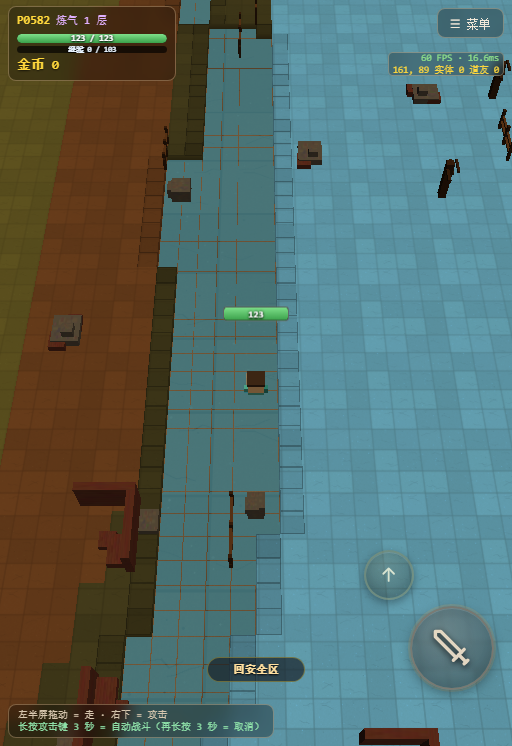
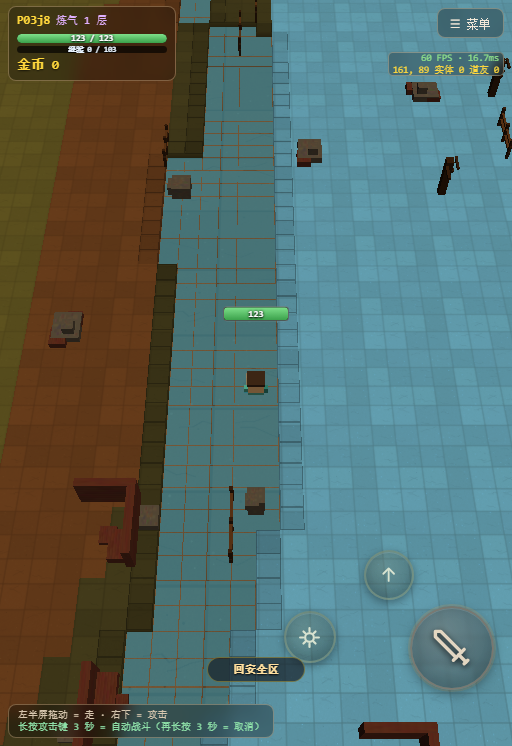
an auto-combat button, and all three action buttons can be moved
Auto-combat was only reachable by holding the attack button for three seconds, which is a
thing you have to know before you can use it. There is now a button beside jump that starts
it in one press and shows whether it is running: a green border and a slow pulse while
active, plain otherwise.

The attack, jump and auto buttons can all be dragged. Each saves its position and restores
it on load, so the layout survives a refresh. Dragging only begins after eight pixels of
movement, so a slightly imprecise tap still presses the button rather than nudging it, and
buttons are clamped to the screen so they cannot be lost off an edge. A button that was
dragged ignores the press that ended the drag.

Verified in the browser: the button exists, one press turns auto-combat on, the state class
flips, and all three are draggable.

The sound-loading text the user mentioned in red at the centre of the screen was not in any
file that is actually served - only in an old unused page - so that one is still
unidentified.

diff --git a/web/platform/web.js b/web/platform/web.js
@@ -2412,6 +2412,91 @@ function autoUiUpd() {
   }
   var chk = document.getElementById('setAuto');
   if (chk) { chk.checked = !!AUTO.on; }
+  /* ★ round353：屏幕上那个自动战斗按钮的状态（绿框 + 呼吸 ✓）*/
+  var ab = document.getElementById('auto');
+  if (ab) {
+    if (AUTO.on) { ab.classList.add('on'); } else { ab.classList.remove('on'); }
+  }
+}
+
+/* ★★★ round353（用户："攻击/跳跃/自动战斗按钮改成可移动的"）★★★
+   ★ 做法：pointerdown 记起点 ✗ 移动超过 8px 就开始拖 ✓
+     → 位置存 localStorage ✗ 刷新后还在 ✓
+   ★ 为什么不用 HTML5 拖放：手机上不认 ✗ pointer 事件两端通用 ✓
+   ★ 拖动阈值 8px：手指微抖不会误判成拖动 ✓ */
+function makeDraggable(id) {
+  var el = document.getElementById(id);
+  if (!el || el._dragInit) { return; }
+  el._dragInit = true;
+  var KEY = 'uiPos_' + id;
+  // ★ 先恢复上次的位置（用 left/top 定位 ✗ 覆盖掉 right/bottom ✓）
+  try {
+    var saved = JSON.parse(localStorage.getItem(KEY) || 'null');
+    if (saved && typeof saved.l === 'number') {
+      el.style.left = saved.l + 'px';
+      el.style.top = saved.t + 'px';
+      el.style.right = 'auto';
+      el.style.bottom = 'auto';
+    }
+  } catch (e) { }
+  var st = null;
+  el.addEventListener('pointerdown', function (e) {
+    if (e && e.preventDefault) { e.preventDefault(); }
+    var r = el.getBoundingClientRect();
+    st = { x: e.clientX, y: e.clientY, l: r.left, t: r.top, moved: false, id: e.pointerId };
+    try { el.setPointerCapture(e.pointerId); } catch (e2) { }
+  });
+  el.addEventListener('pointermove', function (e) {
+    if (!st) { return; }
+    var dx = e.clientX - st.x, dy = e.clientY - st.y;
+    if (!st.moved) {
+      if (Math.abs(dx) < 8 && Math.abs(dy) < 8) { return; }   // ★ 还没到阈值 ✓
+      st.moved = true;
+      el.classList.add('uiDrag');
+    }
+    // ★ 夹在屏幕内 ✗ 别拖出去找不回来 ✓
+    var w = el.offsetWidth, h = el.offsetHeight;
+    var nl = Math.max(0, Math.min(window.innerWidth - w, st.l + dx));
+    var nt = Math.max(0, Math.min(window.innerHeight - h, st.t + dy));
+    el.style.left = nl + 'px';
+    el.style.top = nt + 'px';
+    el.style.right = 'auto';
+    el.style.bottom = 'auto';
+  });
+  function end(e) {
+    if (!st) { return; }
+    var moved = st.moved;
+    st = null;
+    el.classList.remove('uiDrag');
+    if (moved) {
+      el._dragged = true;                  // ★ 让点击处理知道"这是拖动"✓
+      setTimeout(function () { el._dragged = false; }, 250);
+      try {
+        var r = el.getBoundingClientRect();
+        localStorage.setItem(KEY, JSON.stringify({ l: Math.round(r.left), t: Math.round(r.top) }));
+      } catch (e3) { }
+    }
+  }
+  el.addEventListener('pointerup', end);
+  el.addEventListener('pointercancel', end);
+}
+function uiDragInit() {
+  makeDraggable('atk');
+  makeDraggable('jmp');
+  makeDraggable('auto');
+  autoBind();
+}
+
+/* ★ round353：自动战斗按钮绑定（点一下开/关 ✓ 拖动时不触发 ✓ 见 makeDraggable）*/
+function autoBind() {
+  var b = document.getElementById('auto');
+  if (!b || b._bound) { return; }
+  b._bound = true;
+  b.addEventListener('pointerdown', function (e) {
+    if (e && e.preventDefault) { e.preventDefault(); }
+    if (b._dragged) { b._dragged = false; return; }   // ★ 刚拖过 → 不算点击 ✓
+    autoToggle();
+  });
 }
 
 function autoToggle() {
@@ -5550,7 +5635,8 @@ function bindLogin() {
     window.TP_BOOT_DONE = true;
     try { tpBind(); } catch (e) { }
     TPCAST.at = performance.now() / 1000;
-    setInterval(function () { tpEnsureBtn(); tpBarRender(); autoBindAtk(); jumpBind(); autoUiUpd(); }, 100);   /* 100ms 一次 ✓ 便宜 ✓ 而且顺带保证按钮一定挂上 ✓ */
+    setInterval(function () { tpEnsureBtn(); tpBarRender(); autoBindAtk(); jumpBind(); autoUiUpd();
+      if (typeof uiDragInit === 'function') { uiDragInit(); } }, 100);   /* 100ms 一次 ✓ 便宜 ✓ 而且顺带保证按钮一定挂上 ✓ */
     tpBarRender();                      /* 先画一次，把按钮恢复成正常样子 ✓ */
   }
   if (typeof document === 'undefined') { return; }

diff --git a/web/index.html b/web/index.html
@@ -94,6 +94,27 @@
    box-shadow:0 0 0 2px #b7e0a255,inset 0 1px 0 #ffffff22}
  #jmp .jic{width:46%;height:46%;color:#dfe8d4;opacity:.95}
  #jmp.cool{opacity:.45}
+ /* ★★★ round353（用户："自动战斗做一个单独按钮，点击直接进入，并且有状态区分"）★★★
+    位置：跳跃键【左边】✗ 三个键排成一排 ✓ 都可拖动（见 JS 的 makeDraggable）*/
+ #auto{position:fixed;right:calc(18px + var(--atk,84px) + 74px);
+    bottom:calc(56px + var(--atk,84px) * 0.32);
+    width:calc(var(--atk,84px) * 0.62);height:calc(var(--atk,84px) * 0.62);
+    box-sizing:border-box;border-radius:50%;display:flex;align-items:center;justify-content:center;
+    background:radial-gradient(circle at 36% 30%,
+      #6f7d6955 0%,#54614f4d 38%,#35402f3d 76%,#1f271c30 100%);
+    border:2px solid #86967a88;
+    box-shadow:0 3px 9px #00000055,inset 0 1px 0 #ffffff22,inset 0 -6px 12px #0000002a;
+    user-select:none;cursor:pointer;z-index:30;
+    transition:transform .07s ease,box-shadow .15s ease}
+ #auto .aic{width:52%;height:52%;color:#dfe8d4;opacity:.95}
+ /* ★ 状态区分：开着 = 绿边框 + 呼吸光 ✓ 一眼看出在自动打 ✓ */
+ #auto.on{border-color:#8ee0a8cc;
+   box-shadow:0 0 0 2px #8ee0a855,0 0 12px #8ee0a866,inset 0 1px 0 #ffffff22;
+   animation:autoPulse 1.6s ease-in-out infinite}
+ #auto.on .aic{color:#b8f0c8}
+ @keyframes autoPulse{0%,100%{opacity:1}50%{opacity:.72}}
+ /* ★ 拖动中：浮起来 ✓ 给点反馈 ✓ */
+ .uiDrag{outline:2px dashed #ffd83d99;outline-offset:4px}
 /* ★★ 第 233 轮（用户要求）：损坏的装备要有明显样式 ★★
    为什么：挂机回来只看到"少了一件"✗ 分不清是坏了还是丢了 ✓
    现在坏了的还在背包里 ✓ 格子上红框 + 压暗 + 右上角一个叉 ✓ */
@@ -632,6 +653,12 @@
 <div id="jmp"><svg class="jic" viewBox="0 0 24 24" fill="none"
   stroke="currentColor" stroke-width="2.1" stroke-linecap="round" stroke-linejoin="round">
   <path d="M12 19V6"/><polyline points="6 11 12 5 18 11"/>
+</svg></div>
+<div id="auto"><svg class="aic" viewBox="0 0 24 24" fill="none"
+  stroke="currentColor" stroke-width="2.1" stroke-linecap="round" stroke-linejoin="round">
+  <path d="M12 3v3M12 18v3M3 12h3M18 12h3"/>
+  <circle cx="12" cy="12" r="4.2"/>
+  <path d="M6.2 6.2l2 2M15.8 15.8l2 2M17.8 6.2l-2 2M8.2 15.8l-2 2"/>
 </svg></div>
 <div id="dead"><div id="deadCard">
  <div id="deadBy">你已陨落</div>

diff --git a/tools/smoke_p0.js b/tools/smoke_p0.js
@@ -96,6 +96,23 @@ const PW = 'abc123456';
   await sleep(900);
   await ev('jx = 0; jy = 0; return 1;');
   await sleep(200);
+  // ★ 自动战斗按钮 + 可拖动
+  const uiTest = await ev([
+    'var a = document.getElementById("auto");',
+    'var has = !!a;',
+    'var cls0 = has ? a.className : "";',
+    'if (typeof autoToggle === "function") { autoToggle(); }',
+    'var onAfter = (typeof AUTO !== "undefined") ? !!AUTO.on : null;',
+    'if (typeof autoUiUpd === "function") { autoUiUpd(); }',
+    'var cls1 = has ? a.className : "";',
+    'if (typeof autoToggle === "function") { autoToggle(); }',
+    'var draggers = 0;',
+    '["atk","jmp","auto"].forEach(function(id){ var e = document.getElementById(id); if (e && e._dragInit) draggers++; });',
+    'return JSON.stringify({ hasAuto: has, clsBefore: cls0, clsAfterOn: cls1,',
+    '  autoOn: onAfter, draggable: draggers });',
+  ].join(''));
+  console.log('  界面: ' + uiTest);
+
   const ripple = await ev([
     'var live = 0;',
     'for (var i = 0; i < _ripple.length; i++) { if (_ripple[i].on) { live++; } }',
